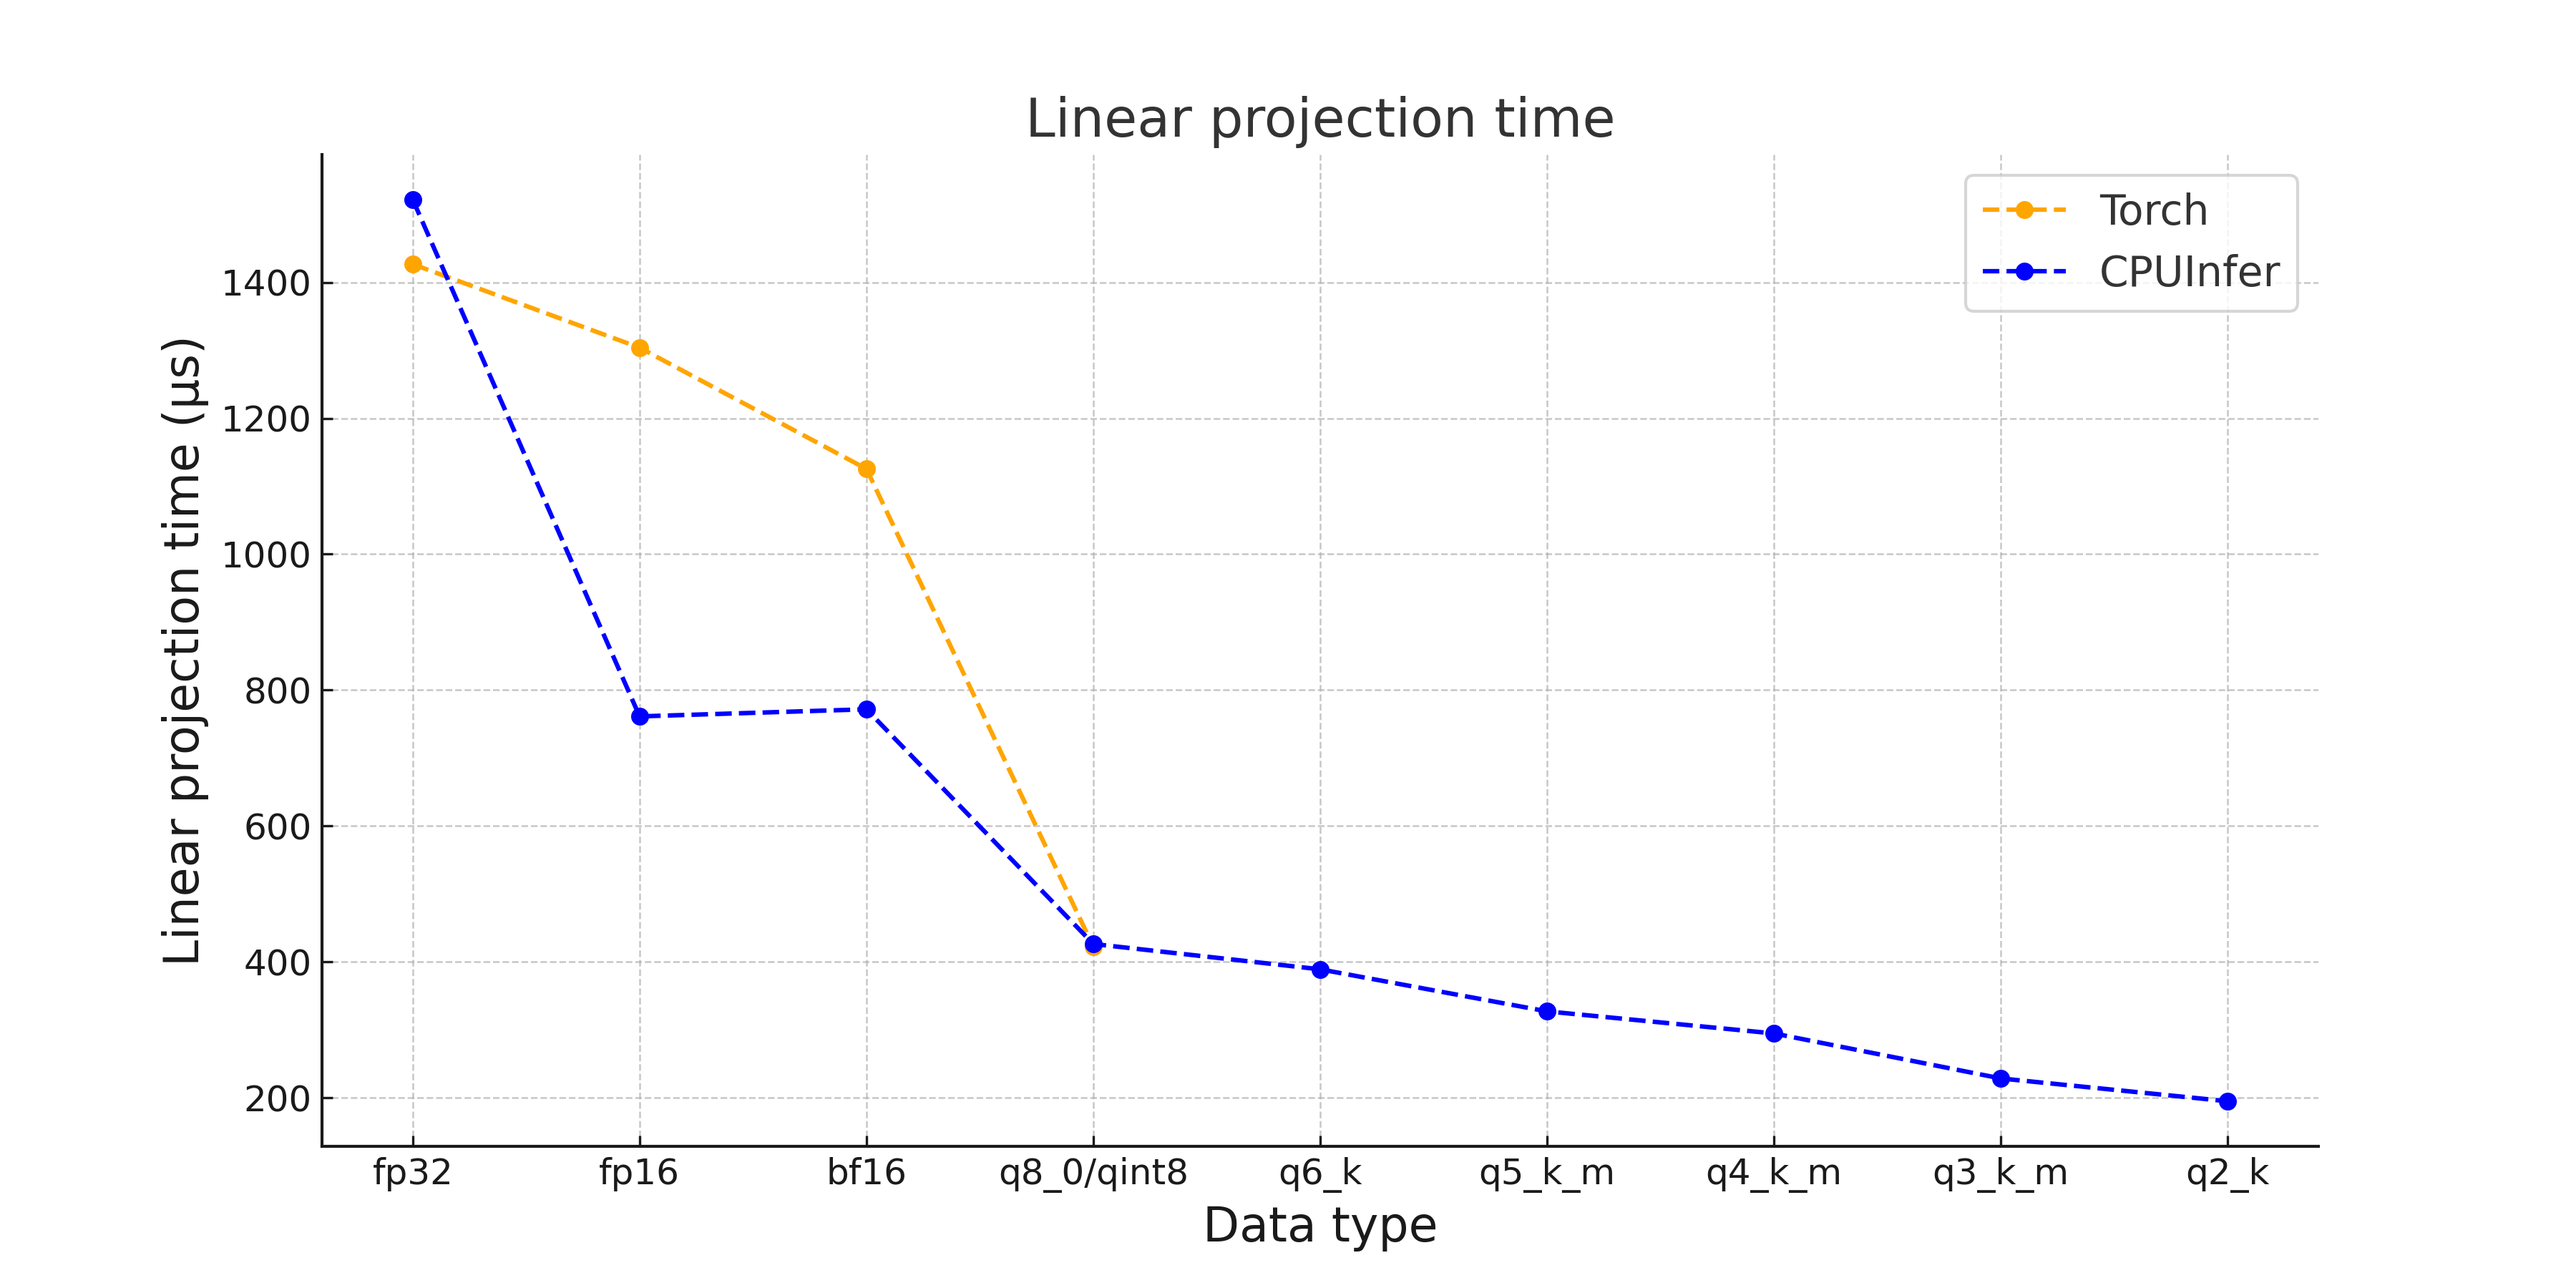
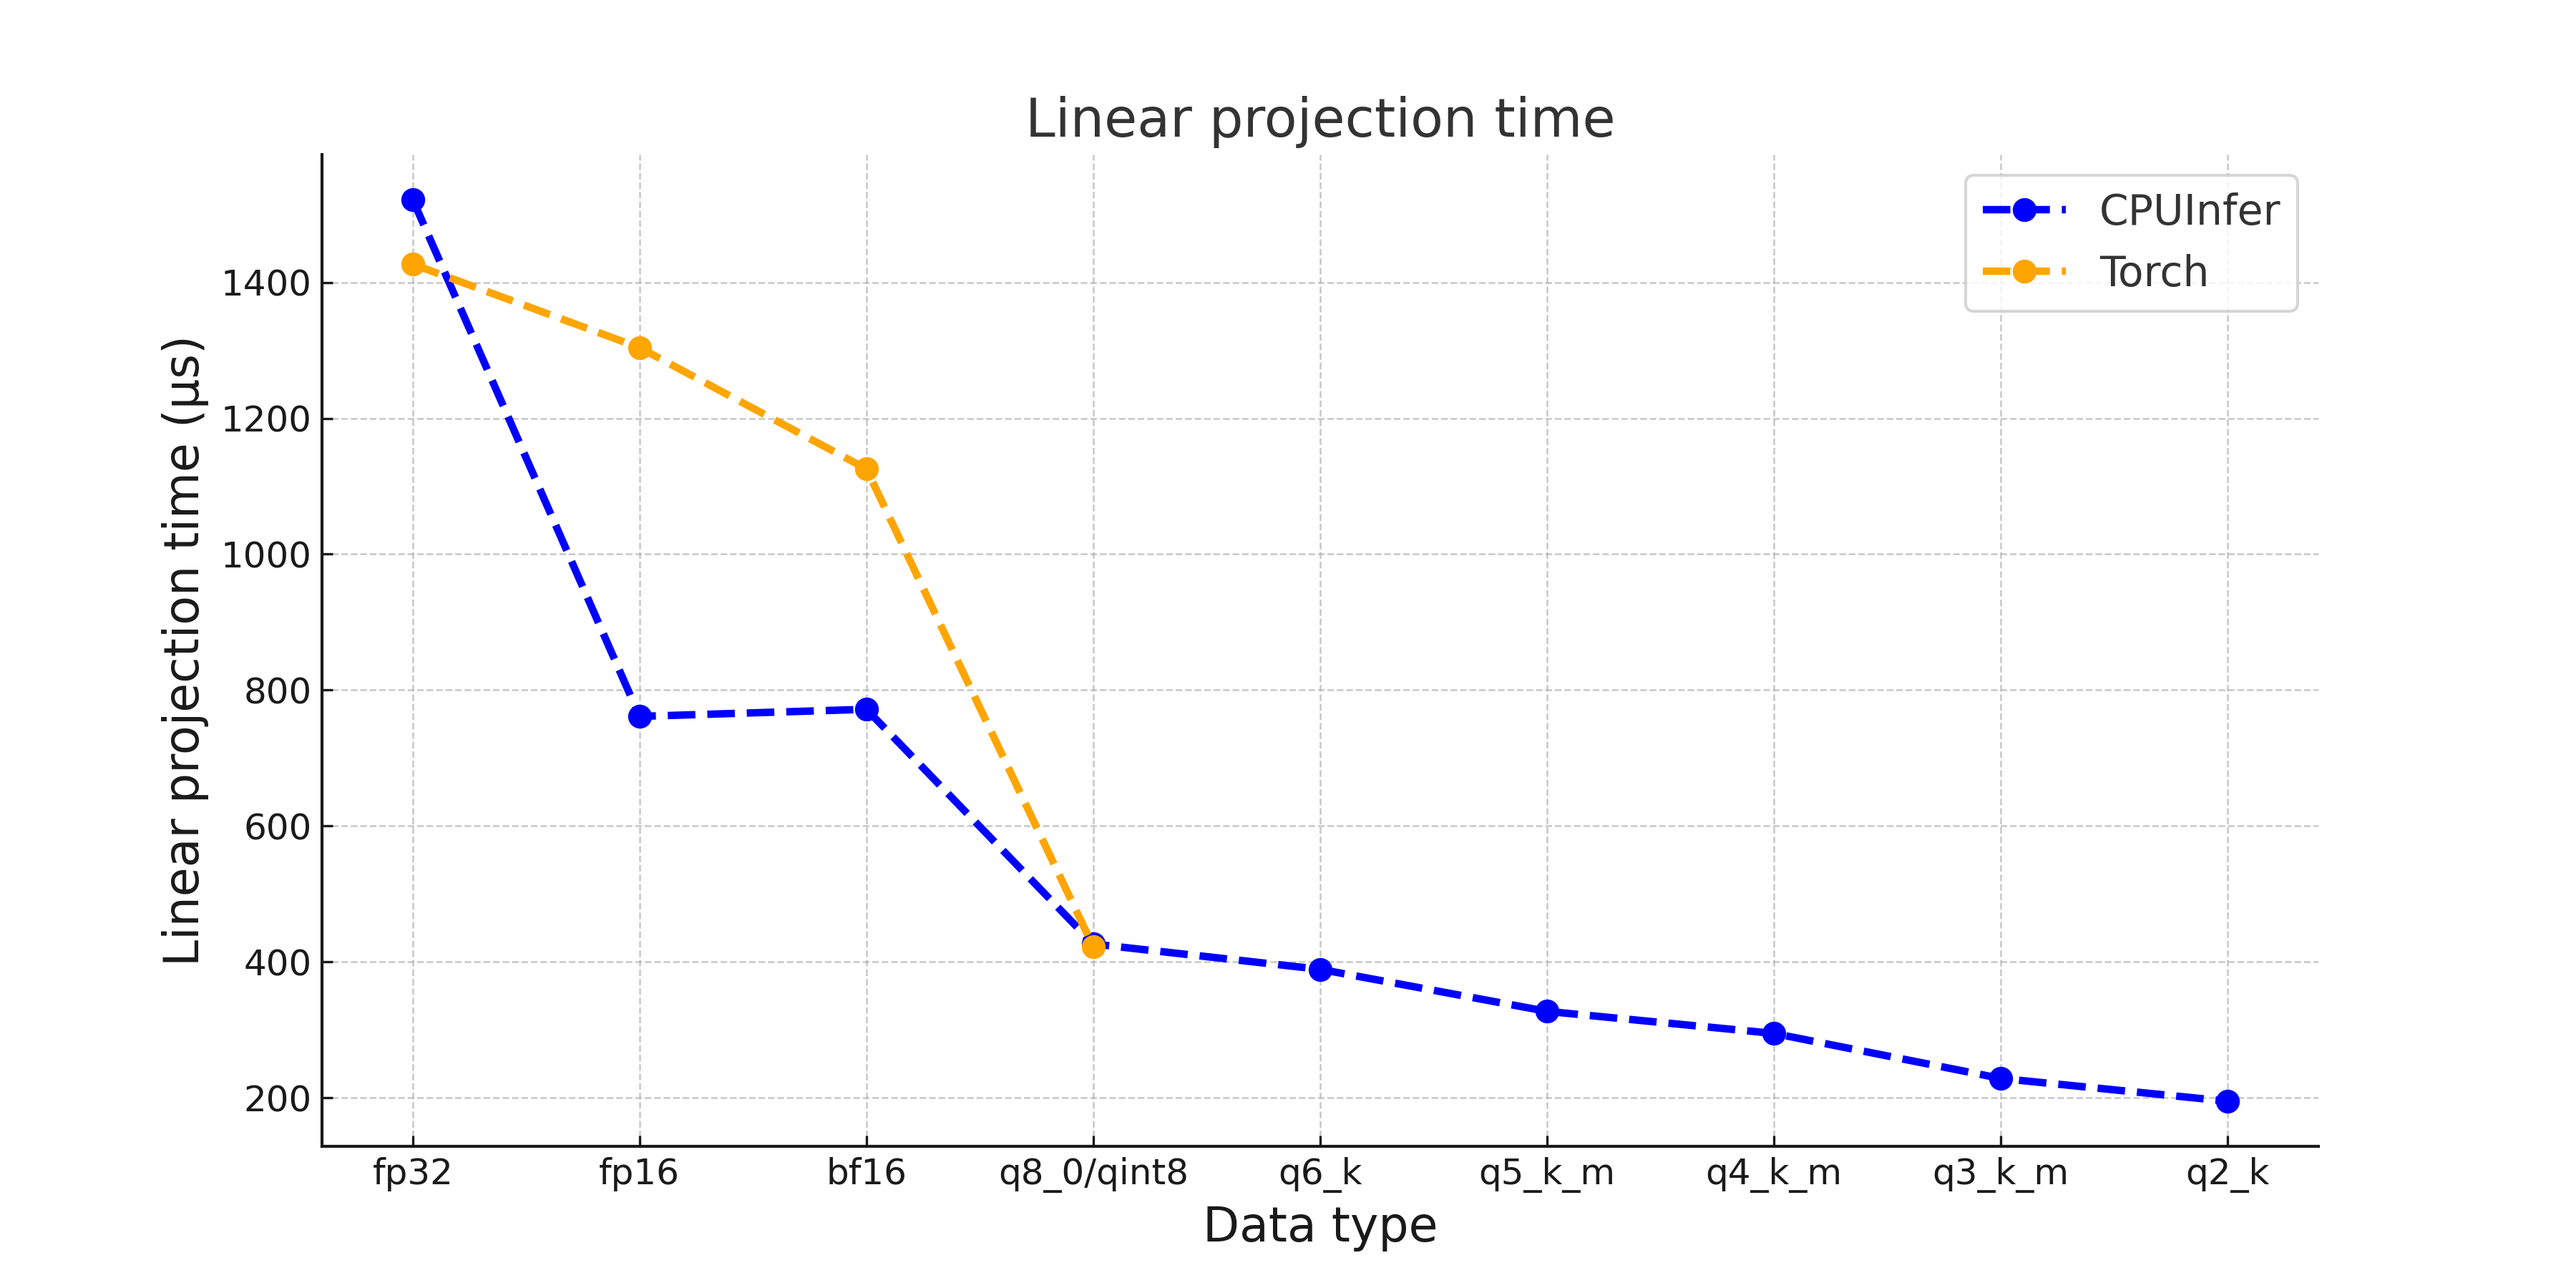
Update docs

diff --git a/doc/en/operators/llamafile.md b/doc/en/operators/llamafile.md
@@ -26,10 +26,6 @@ In half-precision floating-point formats (fp16 and bf16), CPUInfer's performance
 
 In MoE module, each token selected 6 experts out of 160 for computation, with input and output dimensions of 5120, and an intermediate dimension of 1536.
 
-![MoE_time_per_layer_generation_phase](MoE_time_per_layer_generation_phase.png)
+![Combined_MoE_time_per_layer](Combined_MoE_time_per_layer.png)
 
-For half-precision floating points and 8-bit quantization formats, CPUInfer’s generation performance was 2.5 and 3.2 times better than Torch, respectively.
-
-![MoE_time_per_layer_prefill_phase](MoE_time_per_layer_prefill_phase.png)
-
-Moreover, using the 8-bit quantization format, CPUInfer achieved faster prefill speeds compared to Torch, with shorter prompts highlighting a more pronounced performance difference.
+For half-precision floating points and 8-bit quantization formats, CPUInfer’s generation performance was 2.5 and 3.2 times better than Torch, respectively. Moreover, using the 8-bit quantization format, CPUInfer achieved faster prefill speeds compared to Torch, with shorter prompts highlighting a more pronounced performance difference.
